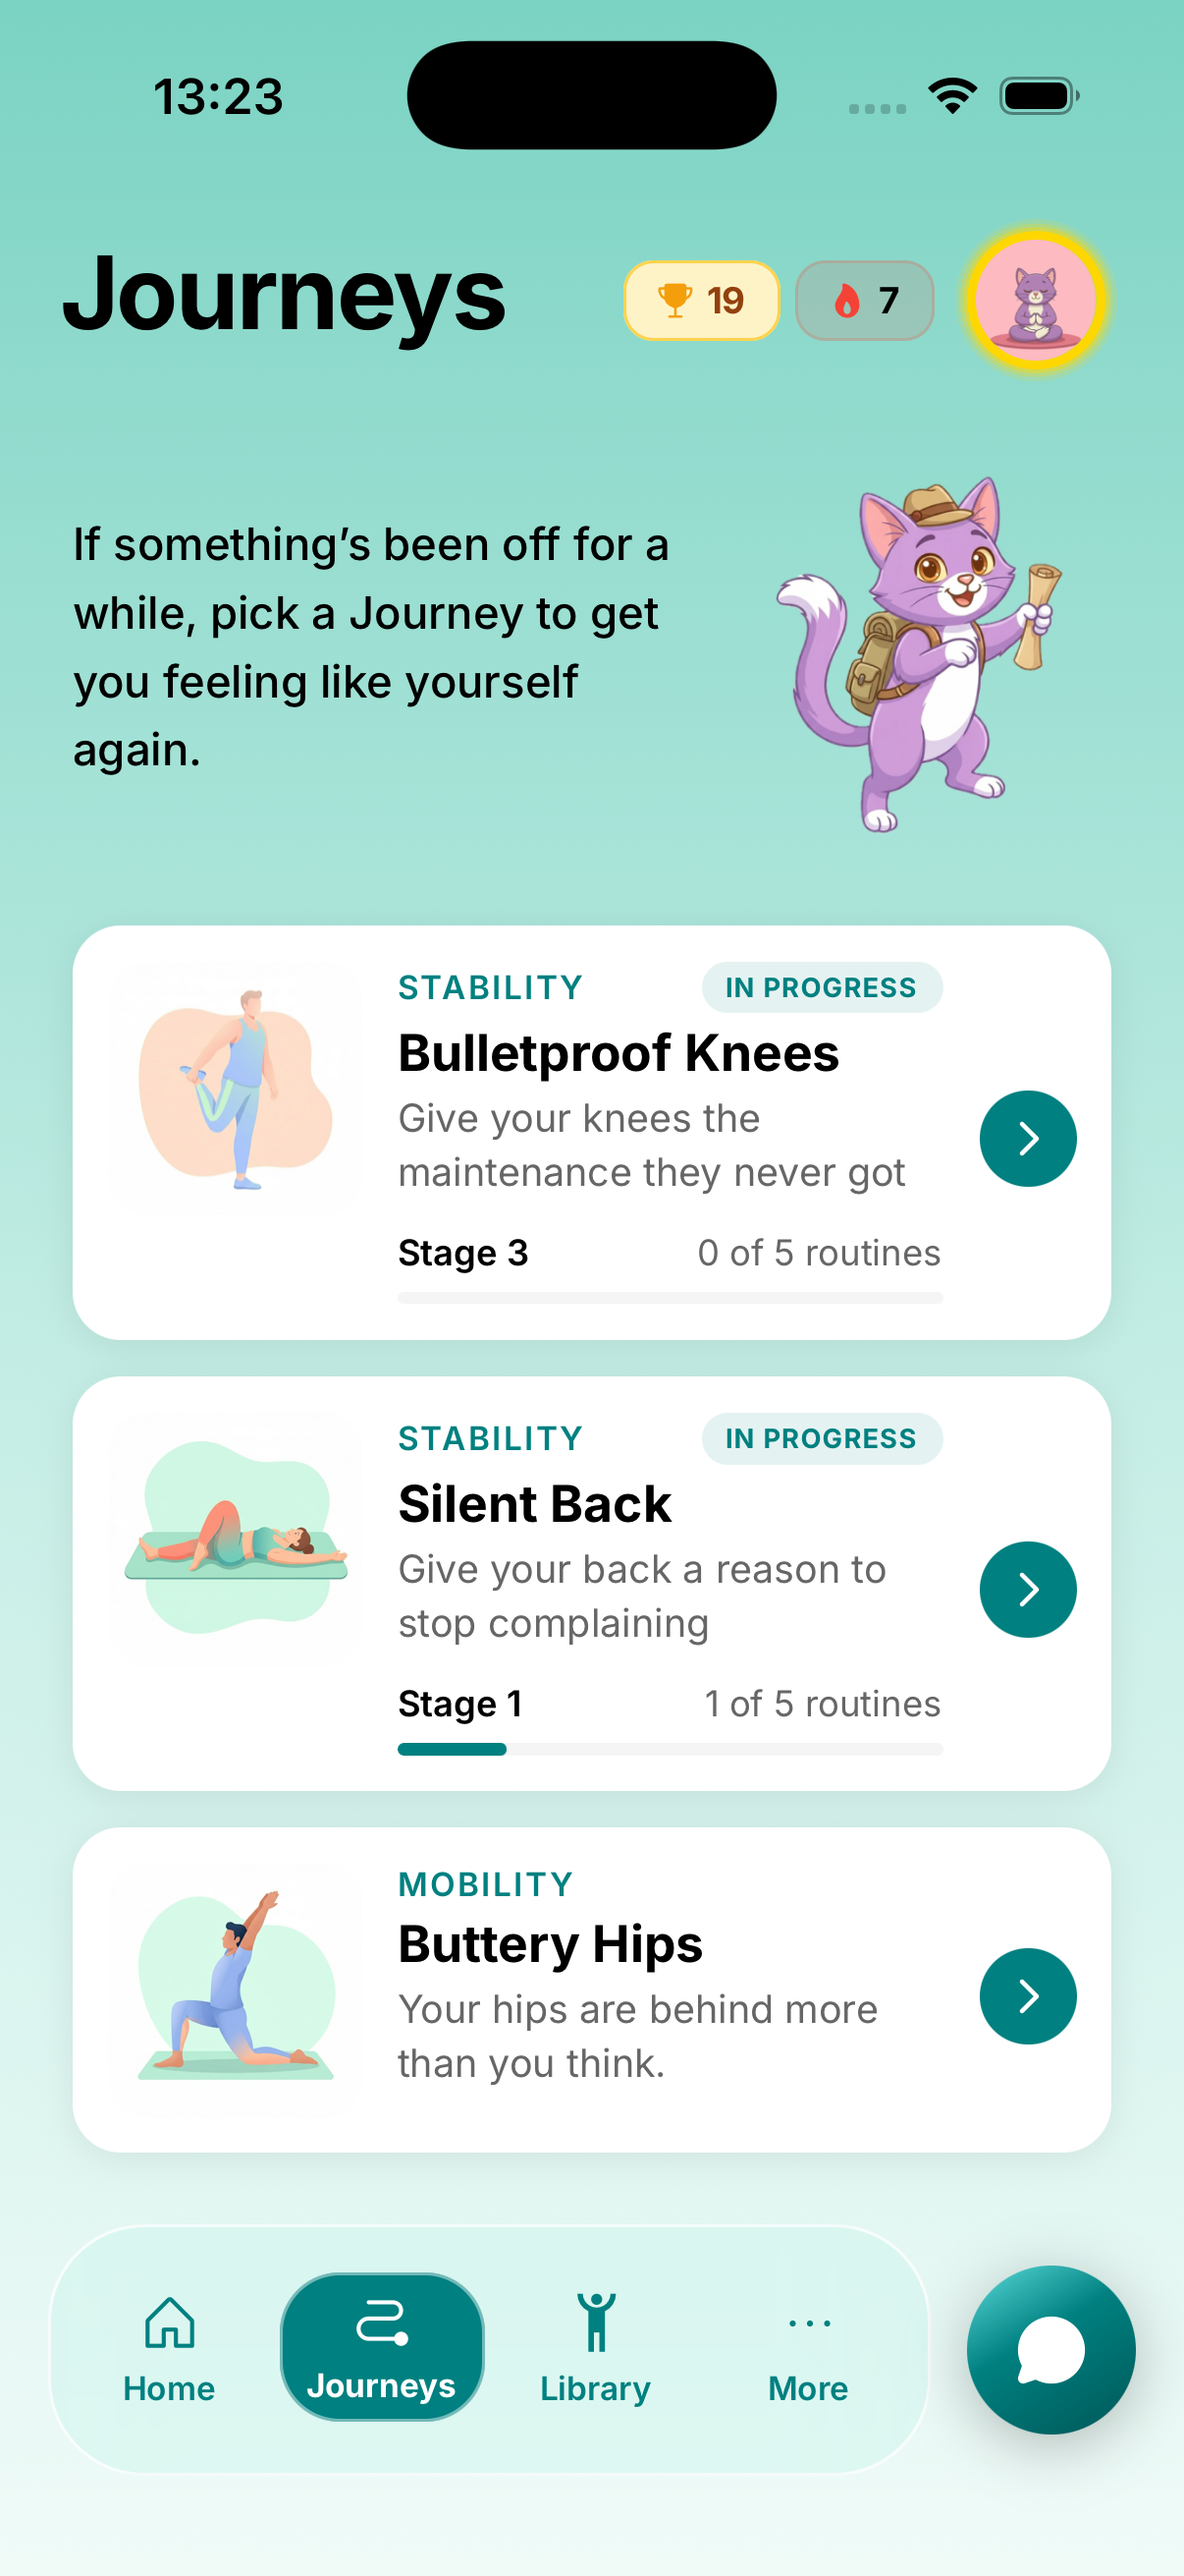
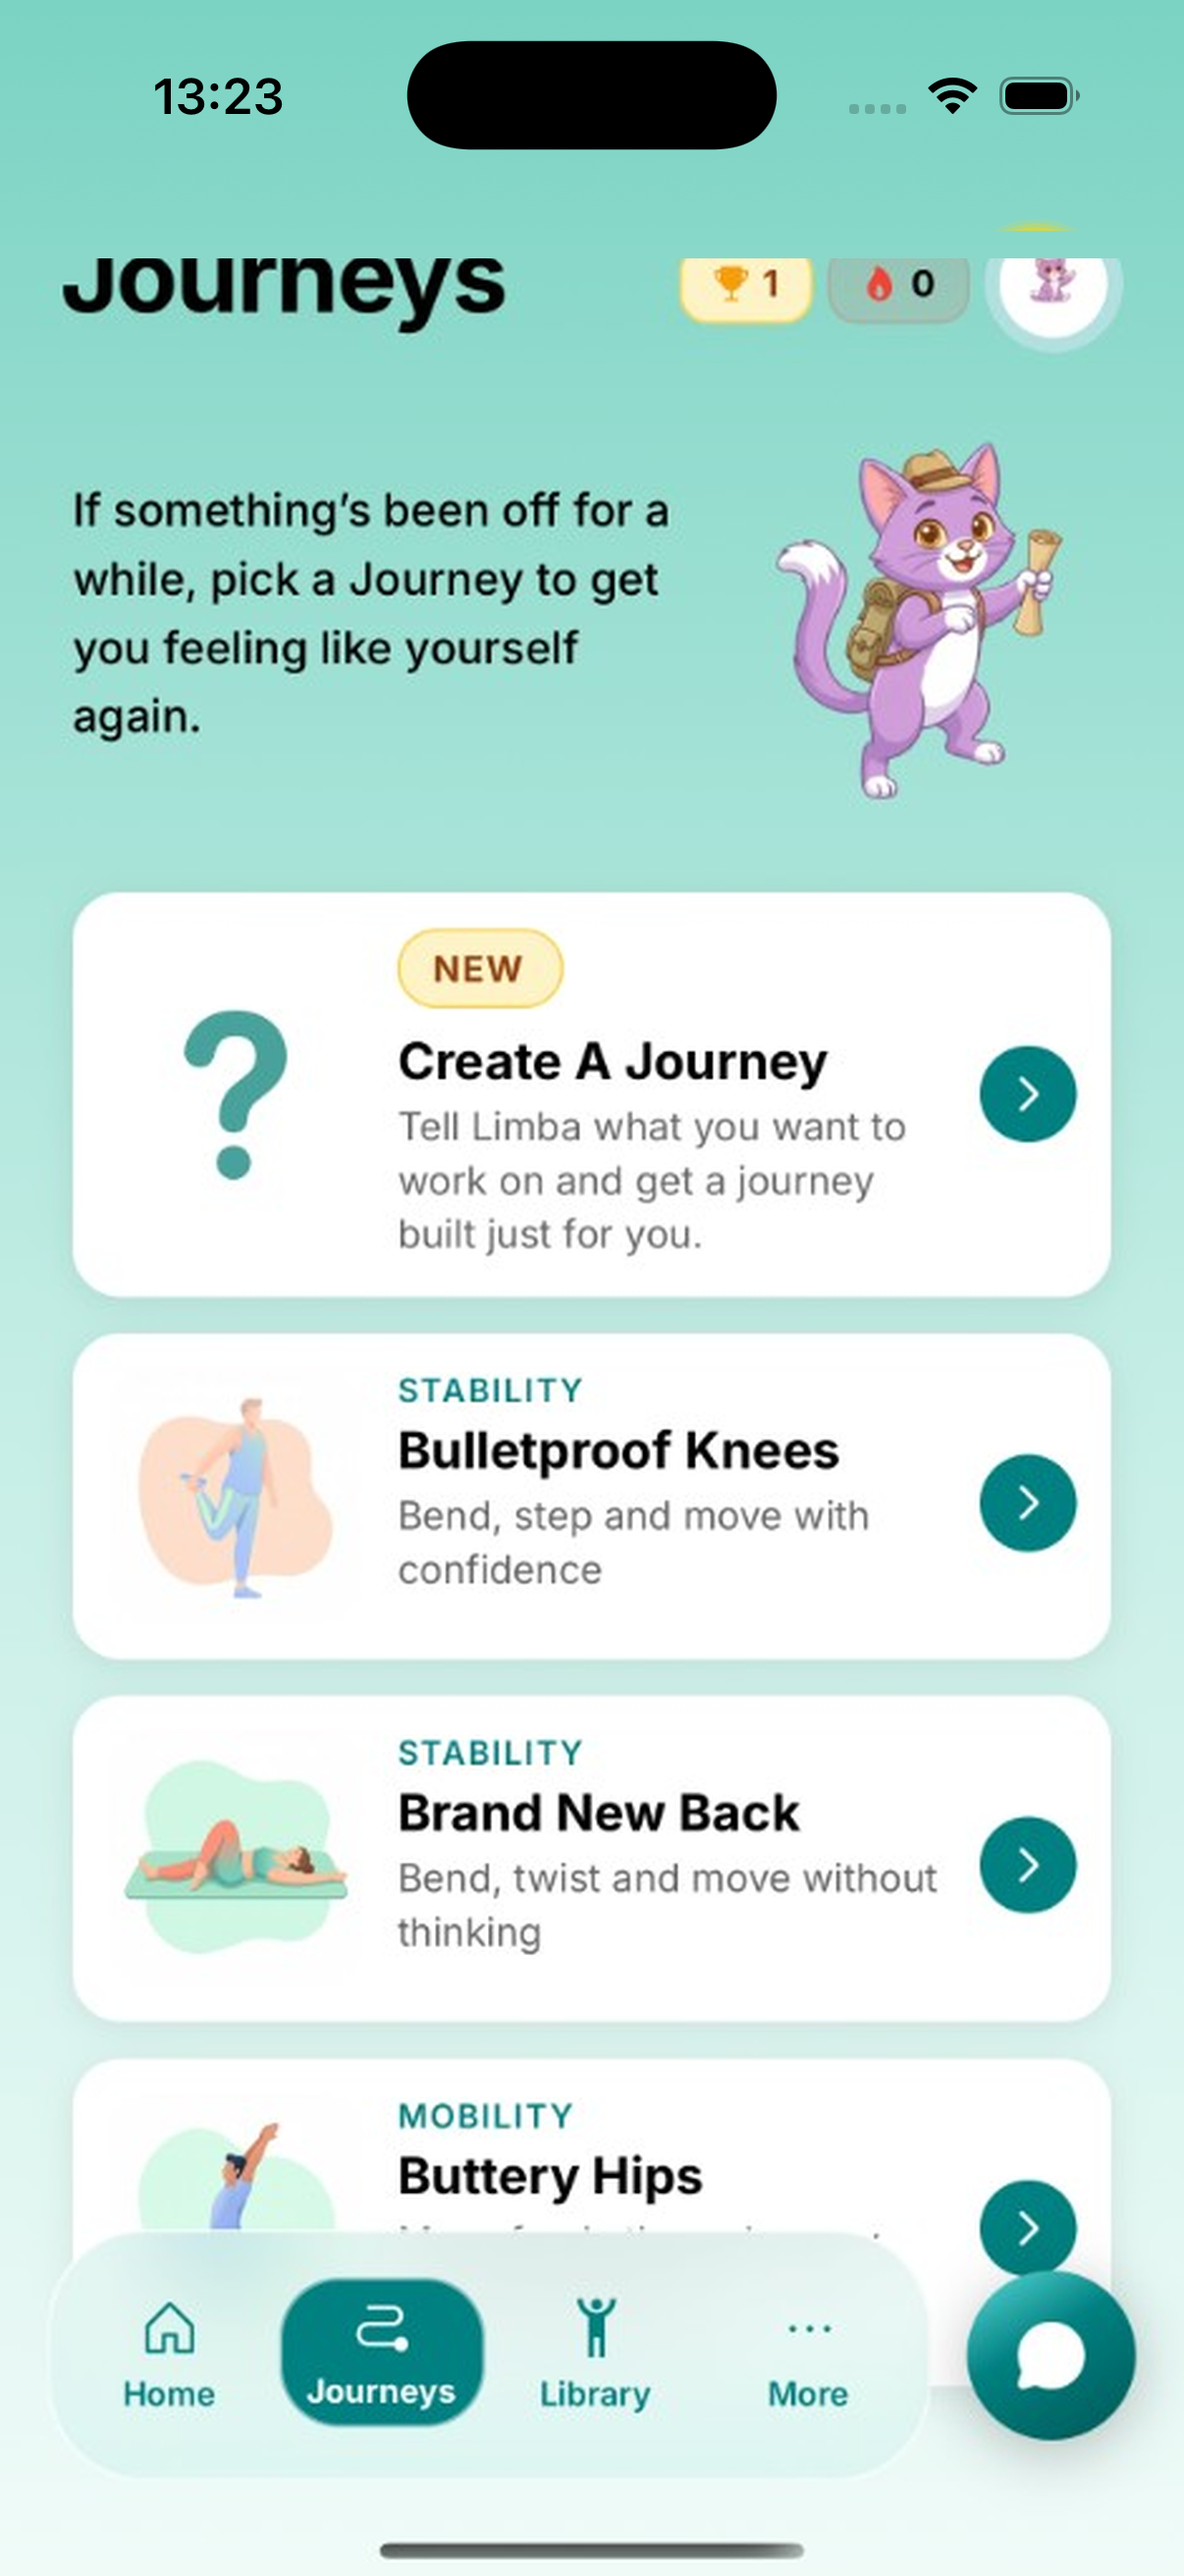
Update Journeys carousel to the Create A Journey list.

diff --git a/app/components/sections/LearnMoreSection.tsx b/app/components/sections/LearnMoreSection.tsx
@@ -39,7 +39,7 @@ const howItWorksFeatures: HowItWorksFeature[] = [
     title: 'Journeys',
     icon: <MountainIcon className="w-7 h-7" />,
     paragraphs: [
-      'When something has been bothering you for a while, pick a Journey: a guided programme that builds up stage by stage for your knees, lower back, or hips. It eases you in, so you are never thrown into the deep end.',
+      'When something has been bothering you for a while, pick a Journey: Bulletproof Knees, Brand New Back, Buttery Hips, or create your own. Tell Limba what you want to work on and get a short daily path built just for you.',
       'Do one short routine a day, watch your progress fill in along a winding path, and earn a milestone badge when you finish. Journeys run alongside your daily routine, and both keep your streak alive.',
     ],
   },
@@ -89,8 +89,8 @@ const showcaseFeatures = [
   },
   {
     ...howItWorksFeatures[2],
-    imageSrc: '/images/journey-detail.png',
-    imageAlt: 'Limba Journey detail screen showing the Bulletproof Knees path map',
+    imageSrc: '/images/journey-overview.png',
+    imageAlt: 'Limba Journeys screen with Create A Journey, Bulletproof Knees, Brand New Back, and Buttery Hips',
   },
   {
     ...howItWorksFeatures[3],

diff --git a/app/lib/data.ts b/app/lib/data.ts
@@ -15,7 +15,7 @@ export const features: Feature[] = [
     icon: 'journeys',
     title: 'Journeys',
     description:
-      'When an ache has been hanging around, follow a guided programme that builds up stage by stage for your knees, lower back, or hips. One short routine a day, with a badge waiting at the end.',
+      'When an ache has been hanging around, pick a Journey for your knees, back, or hips, or create your own. One short routine a day, with a badge waiting at the end.',
   },
   {
     id: 'ask-limba',
